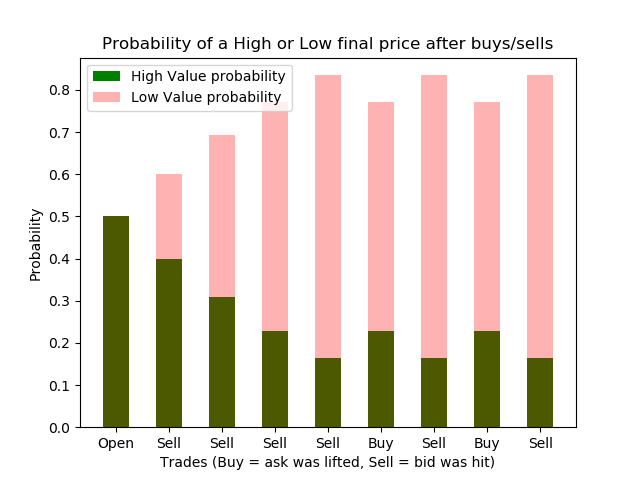
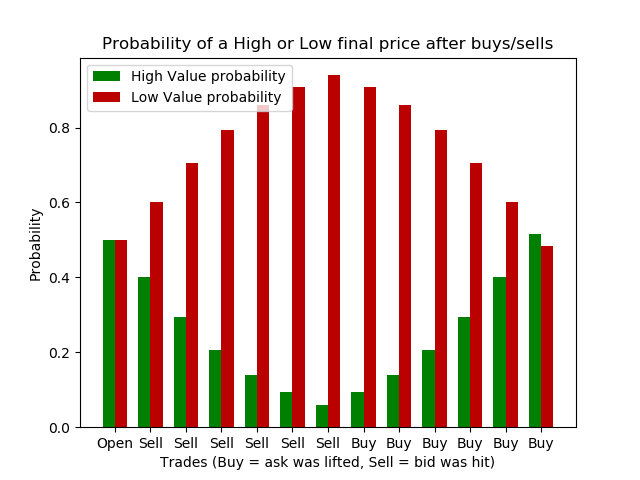
Added the bars for separate graph

diff --git a/VRM/VRM_np.py b/VRM/VRM_np.py
@@ -183,15 +183,22 @@ buy_sell_prob_output.close()
 trade_arr_numpy = np.array( [ [i, trade_seq_array[i][1] , trade_seq_array[i][2]] for i in range(len(trade_seq_array)) ])
 
 # Generate bar graphs to show the probablities of a high or low price given the sequence of buys and sells
-plt.bar( x=trade_arr_numpy[:,0], height=trade_arr_numpy[:,1], color='g' , label='High Value probability', alpha=1, width=0.5 )
-plt.bar( x=trade_arr_numpy[:,0], height=trade_arr_numpy[:,2], color='r', label='Low Value probability', alpha=0.30, width=0.5 )
-plt.legend(loc='best') # for displaying both bar charts with the respective labels
 # mananging the graph labels
-plt.title('Probability of a High or Low final price after buys/sells')
-plt.ylabel('Probability')
-plt.xlabel('Trades (Buy = ask was lifted, Sell = bid was hit)')
+
+width = 0.35                # width of prob bars
+ind = trade_arr_numpy[:,0]  # generating the x axix number lables
+fig, ax = plt.subplots()    # creating ax and fig object
+high_bar = ax.bar(ind - width/2, trade_arr_numpy[:,1], width, color='green', label='High Value probability')
+low_bar = ax.bar(ind + width/2, trade_arr_numpy[:,2], width, color='#bb0000', label='Low Value probability')
+# getting the x ticks of buys and sells
 x_label_ticks = np.array( [ trade_seq_array[i][0] for i in range(len(trade_seq_array)) ] )
-plt.xticks( trade_arr_numpy[:,0], x_label_ticks )
+
+ax.set_title('Probability of a High or Low final price after buys/sells')
+ax.set_ylabel('Probability')
+ax.set_xlabel('Trades (Buy = ask was lifted, Sell = bid was hit)')
+ax.set_xticks(ind)
+ax.set_xticklabels( x_label_ticks )
+ax.legend()
 
 plt.savefig('high_low_prob_output.png')
 plt.show()
